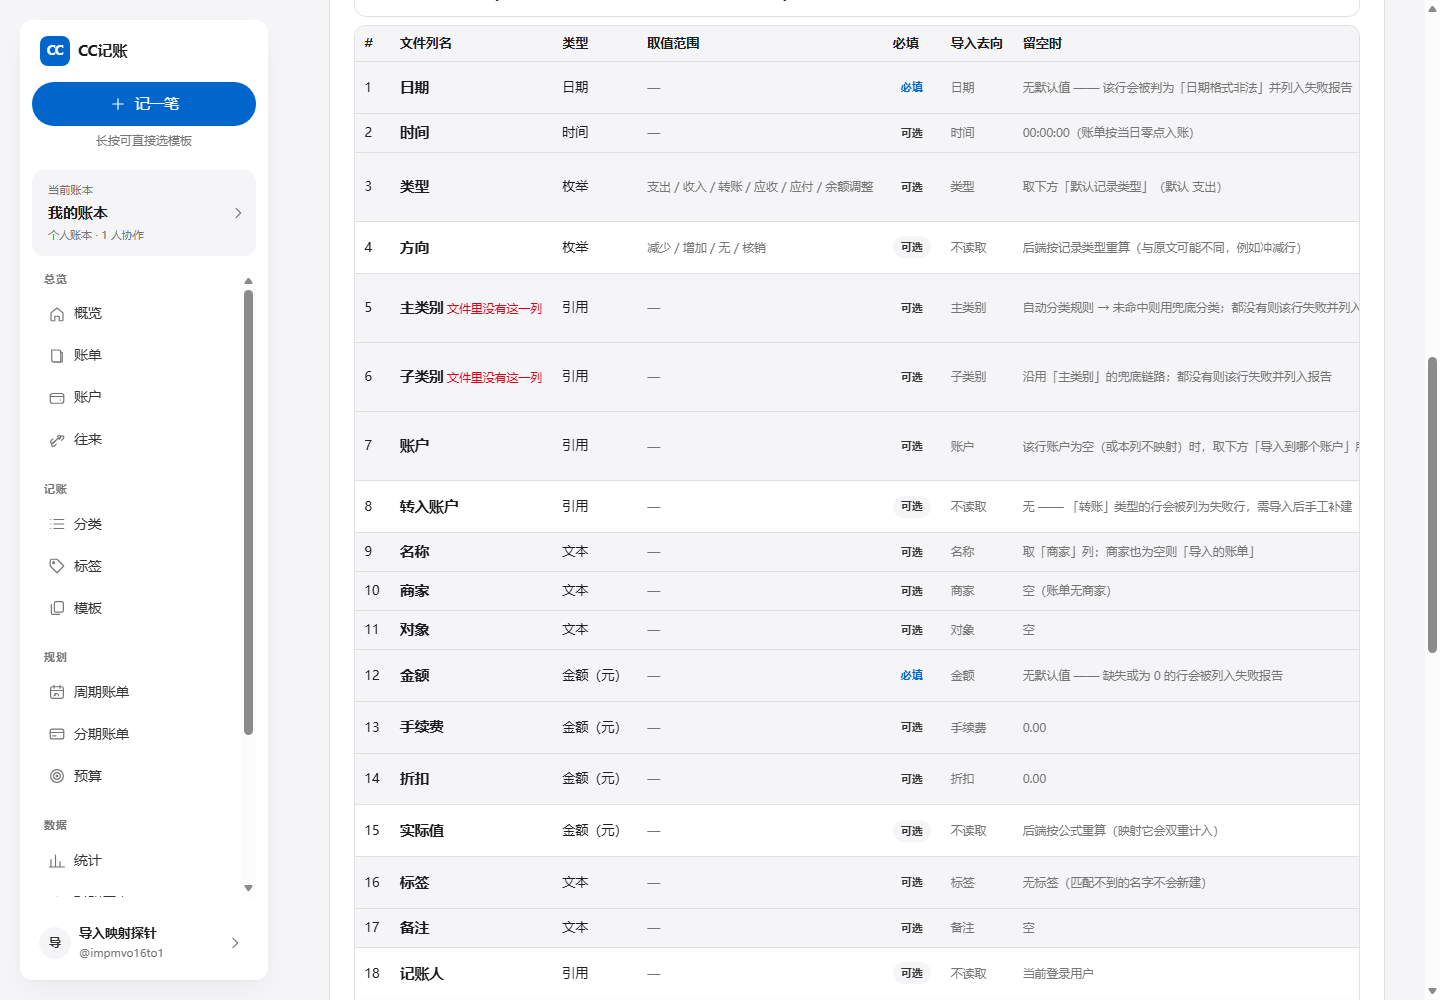
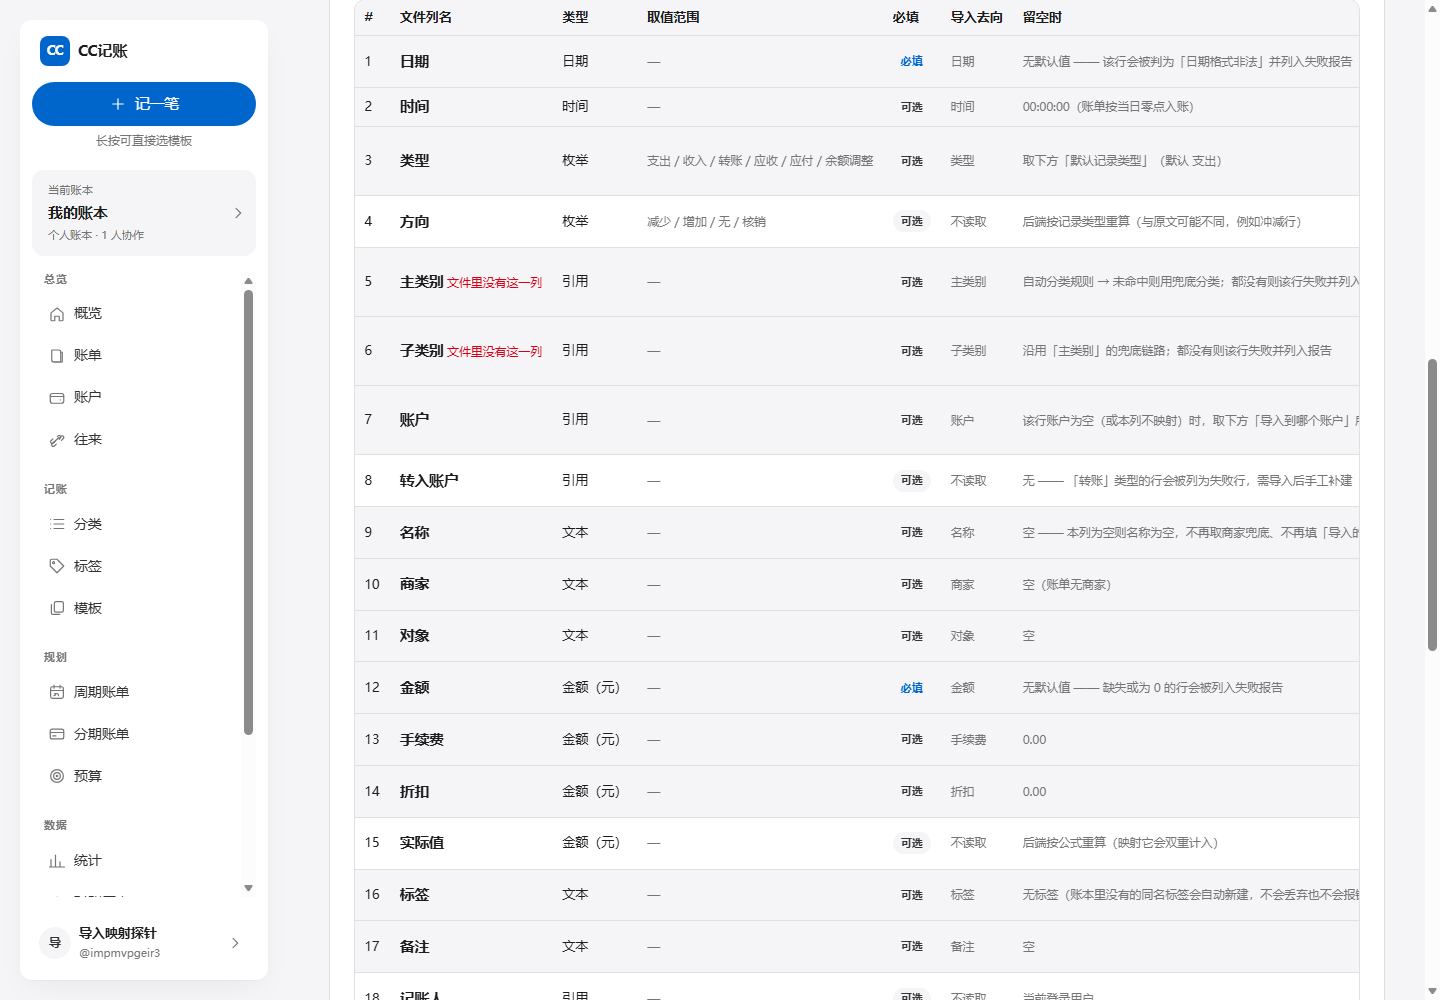
fix(import): 名称/商家/对象/标签/备注改为按列直写，不再匹配转换或兜底填充
导入的这五列此前会被「匹配 + 兜底」改写，落库值不等于文件里写的值：

1. 「名称」为空时取「商家」兜底，仍为空则填成「导入的账单」
   —— 凭空造出文件里没有的值，用户按名称核对时永远对不上，
   且看不出哪条是被兜底填出来的。改为：列里是什么就写什么，
   本列为空 → 名称就是 null，账单照常入库。

2. 「标签」按名字反查账本内标签，**匹配不到的名字被静默丢弃**
   —— 「导入成功但标签没进来」，既无报错也无痕迹。
   改为按列直写：`transaction_tags` 只存 tag_id，所以以列里的**原名**为键，
   已有同名标签复用其 id；没有则用这个名字原样新建（createTag），
   不归一化、不做别名匹配。任何一步拿不到 id 也只丢掉这一个标签，
   绝不让整行失败（可选列不该比必填列更严格）。

3. 商家 / 对象 / 备注本来就是直写，补齐注释并把「空值即留空」写明，
   同时把列契约（MAPPING_TEMPLATES[].doc）与前端 MAPPING_FIELDS
   两处的提示文案改成新口径 —— 这两处是同一份契约，改一处必须改另一处。

不做改动的（明确说明，避免被误读）：
- 去重键仍是「日期 + 金额 + 商家」（docs/05 §14.4）。它不是字段解析/转换，
  去掉会把「同日同额但商家不同」的两笔判成重复而静默跳过 —— 那是丢数据。
- 「商家 / 备注」仍参与自动分类规则匹配（classifyRows）：规则产出的是**分类**，
  不改写这两个字段本身。

验证：
- scripts/smoke-import-runtime.mjs 新增直写行（名称列故意留空 + 两个账本里
  没有的标签）与 7 条断言：名称/备注为空即 null、商家/对象原样、
  标签原样新建、已有同名标签不被重复创建。ALL PASS。
- npm run verify EXIT=0（vitest 85/85）；probe:importmap 80/80。
- 版本 1.1.1 → 1.1.2（package.json / env.ts / docker-compose / 部署文档 / CHANGELOG）。
  SW v20 → v21。

diff --git a/src/modules/imports/service.ts b/src/modules/imports/service.ts
@@ -42,6 +42,8 @@ import { AppError, HttpError } from '../../utils/errors.js';
 import { parseAmountToCents, today as todayStr } from '../../utils/money.js';
 import { writeAudit } from '../../utils/audit.js';
 import { createTransaction, normalizeTime } from '../transactions/service.js';
+/** 标签列直写时用它按名新建（`transaction_tags` 只存 id，名字必须先落到标签表） */
+import { createTag } from '../tags/service.js';
 import { DISCOUNT_APPLICABLE, FEE_APPLICABLE } from '../transactions/amounts.js';
 import { bumpHitCounts, classifyRows } from '../categoryRules/service.js';
 
@@ -317,8 +319,8 @@ doc: [
         values: null,
         required: false,
         consume: 'nameColumn',
-        hint: '可选。账单的展示名称',
-        defaultValue: '取「商家」列；商家也为空则「导入的账单」',
+        hint: '可选。账单的展示名称，按列原样写入（不与已有账单做任何匹配）',
+        defaultValue: '空 —— 本列为空则名称为空，不再取商家兜底、不再填「导入的账单」',
       },
       {
         column: '商家',
@@ -327,7 +329,7 @@ doc: [
         values: null,
         required: false,
         consume: 'merchantColumn',
-        hint: '可选。同时参与去重键比对',
+        hint: '可选。按列原样写入；同时参与去重键（日期+金额+商家）比对',
         defaultValue: '空（账单无商家）',
       },
       {
@@ -337,7 +339,7 @@ doc: [
         values: null,
         required: false,
         consume: 'counterpartyColumn',
-        hint: '可选。往来对象（借给谁 / 欠谁的）',
+        hint: '可选。往来对象（借给谁 / 欠谁的），按列原样写入',
         defaultValue: '空',
       },
       {
@@ -387,8 +389,8 @@ doc: [
         values: null,
         required: false,
         consume: 'tagsColumn',
-        hint: '可选。多个标签以「、」分隔；只认账本内已存在的标签名',
-        defaultValue: '无标签（匹配不到的名字不会新建）',
+        hint: '可选。多个标签以「、」分隔，按列原样写入',
+        defaultValue: '无标签（账本里没有的同名标签会自动新建，不会丢弃也不会报错）',
       },
       {
         column: '备注',
@@ -397,7 +399,7 @@ doc: [
         values: null,
         required: false,
         consume: 'noteColumn',
-        hint: '可选。账单备注，最多 2000 字',
+        hint: '可选。账单备注，最多 2000 字，按列原样写入',
         defaultValue: '空',
       },
       {
@@ -559,7 +561,13 @@ export interface Mapping {
   directionColumn?: string | null;
   /** 时分秒；留空 → occurred_at 取当日 00:00:00 */
   timeColumn?: string | null;
-  /** 账单名称；留空 → 取商家，仍为空则「导入的账单」 */
+  /**
+   * 账单名称。
+   *
+   * ⚠ **按列直写**：列里是什么就写什么，为空就是空（null）。
+   *    不再「取商家兜底、再兜底成『导入的账单』」—— 那是凭空造出文件里没有的值，
+   *    用户按名称核对时会对不上。
+   */
   nameColumn?: string | null;
   /** 主类别（一级分类）名；留空 → 自动分类规则 → 兜底分类 */
   mainCategoryColumn?: string | null;
@@ -571,7 +579,12 @@ export interface Mapping {
   feeColumn?: string | null;
   /** 折扣；留空 → 0。同上 */
   discountColumn?: string | null;
-  /** 标签名，多个以「、」分隔；留空 → 无标签 */
+  /**
+   * 标签名，多个以「、」分隔；留空 → 无标签。
+   *
+   * ⚠ **按列直写**：名字原样落到标签上，账本里没有的同名标签会新建，
+   *    不做「匹配不到就丢弃」的过滤，也不因它让整行失败。
+   */
   tagsColumn?: string | null;
   recordType: RecordType;
   defaultAccountId: string;
@@ -747,6 +760,17 @@ export function parseRows(
   /** 每行自带的账户名（「账户」列）；-1 = 未映射，全部走 defaultAccountId */
   const iAccount = idx(mapping.accountColumn);
   const iTime = idx(mapping.timeColumn);
+  /**
+   * 五个「文本直通」列：名称 / 商家 / 对象 / 标签 / 备注。
+   *
+   * ⚠ 它们**只按列取值**，后续不做任何匹配、转换、校验或过滤：
+   *    · 不拿名称 / 商家去匹配系统里已有的记录；
+   *    · 不把商家 / 对象 / 标签转成内部 id 或枚举（标签 id 的落库见 `ensureTagIds`）；
+   *    · 不校验它们在系统里是否存在；
+   *    · 空值即留空（null），不会因此让这一行失败。
+   * 这里唯一的加工是 `at()` 的**外层空白裁剪**（CSV 常带尾随空格，
+   * 不裁会把「 美团 」当成与「美团」不同的商家），值本身一字不改。
+   */
   const iName = idx(mapping.nameColumn);
   const iMain = idx(mapping.mainCategoryColumn);
   const iSub = idx(mapping.subCategoryColumn);
@@ -1127,28 +1151,44 @@ function resolveCategoryByNames(
 }
 
 /**
- * 标签名 → 标签 id。
+ * 标签列 → 标签 id。
  *
- * ⚠ 与导出端一致：导入的「标签」列是**名字**（`、「」` 分隔），而 `createTransaction`
- *     要的是 **id**（`docs/05 §14.4` 的 transaction_tags 关联表只存 id）。
- *     此前漏了这层转换，导致整行报「标签不存在」而建不了账 —— 一个可选列的错误
- *     放大成整笔账单丢失（违反「可选列不该比必填列更严格」）。
+ * ⚠ **按列直写**：「标签」列写的是**名字**（`、「」` 分隔），而 `transaction_tags`
+ *     关联表只存 tag_id（`docs/05 §14.4`），所以这里以**列里的原名**为键：
+ *       · 账本里已有同名标签 → 复用它的 id；
+ *       · 没有 → 用**这个名字原样新建**（不归一化、不做别名匹配、不改名）。
  *
- * 映射不到的名字**静默丢弃**（不新建）：导入只认账本内已有的标签，
- * 新建标签属于「改变用户账本结构」的副作用，不该由导入悄悄做。
+ * 为什么不再「匹配不到就静默丢弃」：那等于把文件里写了的值悄悄抹掉，
+ * 用户看到的是「导入成功，但标签没进来」，既无报错也无痕迹。
+ * 直写的代价是可能新增标签，换来的是「导入的值 = 文件里的值」这条可核对的保证。
+ *
+ * 任何一步拿不到 id 都只丢掉这一个标签，**绝不让整行失败** ——
+ * 标签是可选列，可选列不该比必填列更严格。
  */
-function resolveTagNames(ctx: AppCtx, ledgerId: string, names: string[]): string[] {
+function ensureTagIds(ctx: AppCtx, actorId: string, ledgerId: string, names: string[]): string[] {
   if (!names.length) return [];
-  const rows = ctx.db
-    .select({ id: tags.id, name: tags.name })
-    .from(tags)
-    .where(eq(tags.ledgerId, ledgerId))
-    .all();
-  const byName = new Map(rows.map((r) => [r.name, r.id]));
   const ids: string[] = [];
-  for (const n of names) {
-    const id = byName.get(n);
-    if (id) ids.push(id);
+  for (const name of names) {
+    const found = ctx.db
+      .select({ id: tags.id })
+      .from(tags)
+      .where(and(eq(tags.ledgerId, ledgerId), eq(tags.name, name)))
+      .get();
+    if (found) {
+      ids.push(found.id);
+      continue;
+    }
+    try {
+      ids.push(createTag(ctx, actorId, ledgerId, { name }).id);
+    } catch {
+      /* 并发下可能已被别人建了同名标签：再查一次；仍然拿不到就跳过这一个标签 */
+      const again = ctx.db
+        .select({ id: tags.id })
+        .from(tags)
+        .where(and(eq(tags.ledgerId, ledgerId), eq(tags.name, name)))
+        .get();
+      if (again) ids.push(again.id);
+    }
   }
   return ids;
 }
@@ -1369,7 +1409,15 @@ export function commit(
         recordType: p.recordType,
         accountId,
         categoryId,
-        name: p.name || p.merchant || '导入的账单',
+        /**
+         * 五个文本字段**按列直写**（名称 / 商家 / 对象 / 标签 / 备注）：
+         * 取的就是文件里那一格的原始值 —— 不做匹配、不转换、不校验、不兜底填充。
+         *
+         * ⚠ 名称不再「取商家 → 再兜底成『导入的账单』」：那是凭空造出文件里没有的值，
+         *    用户按名称核对时对不上，且永远看不出哪条是被兜底填出来的。
+         *    本列为空 → 名称就是空（null），账单照常入库。
+         */
+        name: p.name,
         merchant: p.merchant,
         note: p.note,
         amount: p.amount,
@@ -1378,7 +1426,8 @@ export function commit(
         txDate: p.txDate > todayStr() ? todayStr() : p.txDate,
         txTime: p.txTime,
         counterparty: p.counterparty,
-        tags: resolveTagNames(ctx, ledgerId, p.tags),
+        /** 标签同样按列直写：名字原样落库，账本里没有的同名标签自动新建，不会因此失败 */
+        tags: ensureTagIds(ctx, actorId, ledgerId, p.tags),
         clientRequestId: `import:${ledgerId}:${p.row}:${Math.abs(Math.round(Number(p.amount) * 100))}:${p.merchant ?? ''}`,
       });
       batch.add(k);

diff --git a/public/assets/views/import.js b/public/assets/views/import.js
@@ -35,14 +35,14 @@ const MAPPING_FIELDS = [
   { key: 'recordTypeColumn', label: '类型列', hint: '留空则整份文件按下方「默认记录类型」入账' },
   { key: 'accountColumn', label: '账户列', hint: '每行按这一列的账户名入账；留空或该行没有值，才记到下方「导入到哪个账户」' },
   { key: 'timeColumn', label: '时间列', hint: '留空则记账时间为当日 00:00:00' },
-  { key: 'nameColumn', label: '名称列', hint: '留空则取「商家」列，仍为空则「导入的账单」' },
+  { key: 'nameColumn', label: '名称列', hint: '按这一列原样写入账单名称；留空则名称为空（不再取商家兜底）' },
   { key: 'mainCategoryColumn', label: '主类别列', hint: '留空则走自动分类规则，再退回兜底分类' },
   { key: 'subCategoryColumn', label: '子类别列', hint: '留空则沿「主类别」的兜底链路' },
   { key: 'merchantColumn', label: '商家列', hint: '留空则账单无商家' },
   { key: 'counterpartyColumn', label: '对象列', hint: '留空则账单无往来对象' },
   { key: 'feeColumn', label: '手续费列', hint: '留空则按 0 处理' },
   { key: 'discountColumn', label: '折扣列', hint: '留空则按 0 处理' },
-  { key: 'tagsColumn', label: '标签列', hint: '留空则无标签；只认账本内已有标签' },
+  { key: 'tagsColumn', label: '标签列', hint: '留空则无标签；按这一列原样写入，账本里没有的同名标签会自动新建' },
   { key: 'noteColumn', label: '备注列', hint: '留空则账单无备注' },
 ];
 

diff --git a/public/sw.js b/public/sw.js
@@ -21,7 +21,7 @@
  * 静态资源走 SWR，不换版本号的话用户第一次刷新拿到的仍是旧 JS ——
  * 正好是要修的那份，会被当成「没修好」。
  */
-const VERSION = 'cc-ledger-v20';
+const VERSION = 'cc-ledger-v21';
 const SHELL = `${VERSION}-shell`;
 const STATIC = `${VERSION}-static`;
 const API = `${VERSION}-api`;

diff --git a/src/config/env.ts b/src/config/env.ts
@@ -45,7 +45,7 @@ const EnvSchema = z.object({
   ENABLE_SCHEDULER: boolEnv(true),
   BACKUP_ENABLED: boolEnv(true),
   BACKUP_RETENTION_DAYS: z.coerce.number().int().min(0).default(14),
-  APP_VERSION: z.string().min(1).default('1.1.1'),
+  APP_VERSION: z.string().min(1).default('1.1.2'),
 });
 
 export type Env = z.infer<typeof EnvSchema>;

diff --git a/DEPLOY-绿联NAS.md b/DEPLOY-绿联NAS.md
@@ -216,7 +216,7 @@ cat .env
 | 配置项 | 作用 | 能不能改 |
 |---|---|---|
 | `build: context: .` | 用当前目录的 `Dockerfile` 构建镜像 | 别改 |
-| `image: ${CC_IMAGE:-cc-ledger:1.1.1}` | 用哪个镜像：不设 `CC_IMAGE` 就用本地构建的这个名字；设成 `ghcr.io/shayi/cc-ledger:latest` 就是拉 GitHub 构建好的 | 可改（见 5.0） |
+| `image: ${CC_IMAGE:-cc-ledger:1.1.2}` | 用哪个镜像：不设 `CC_IMAGE` 就用本地构建的这个名字；设成 `ghcr.io/shayi/cc-ledger:latest` 就是拉 GitHub 构建好的 | 可改（见 5.0） |
 | `restart: unless-stopped` | **开机自启的核心**：容器退出就自动拉起；你手动停的则不再拉 | 见第五节 |
 | `ports: "3000:3000"` | **端口映射**，见第六节 | 端口冲突时只改左边 |
 | `JWT_SECRET` | 登录凭证密钥 | **必改**，其余可不动 |
@@ -270,7 +270,7 @@ echo 'CC_IMAGE=ghcr.io/shayi/cc-ledger:latest' >> .env
 ```
 
 > `CC_IMAGE` 不是应用的环境变量，只被 `docker-compose.yml` 读取，用来决定「用哪个镜像」。
-> 不写这一行 = 走本地构建（默认 `cc-ledger:1.1.1`）。
+> 不写这一行 = 走本地构建（默认 `cc-ledger:1.1.2`）。
 
 **第 2 步：登录 ghcr**（镜像设为 public 后可以跳过这步）
 
@@ -299,7 +299,7 @@ docker compose up -d
 |---|---|---|
 | `latest` | 每次推 `main` | 日常用这个 |
 | `sha-626e08c` | 每次构建 | 想钉死到某一次提交 |
-| `v1.1.1` | 打了 `v*` tag | 固定版本 |
+| `v1.1.2` | 打了 `v*` tag | 固定版本 |
 
 **想把镜像设为 public（这样任何机器不用登录就能拉）**：
 GitHub → 你的头像 → Your profile → **Packages** → `cc-ledger` → 右侧 **Package settings** →
@@ -717,7 +717,7 @@ curl http://127.0.0.1:3000/healthz
 {
   "status": "ok",
   "app": "CC记账",
-  "version": "1.1.1",
+  "version": "1.1.2",
   "uptimeSeconds": 3944,
   "database": { "connected": true, "migrationsApplied": 17, "walMode": true },
   "scheduler": { "running": true, "nextRun": "...", "tasks": [] }

diff --git a/CHANGELOG.md b/CHANGELOG.md
@@ -4,6 +4,26 @@
 打 `v*` tag 时 GitHub Actions 会产出同名的固定版本镜像（如 `v1.1.0`），
 推 `main` 时产出 `latest` 与 `sha-xxxxxxx`。
 
+## 1.1.2 — 2026-10-26
+
+### 修复
+- **导入：名称 / 商家 / 对象 / 标签 / 备注改为按列直写**。此前这五列会被
+  「匹配 + 兜底」改写，导入值不等于文件值：
+  · 「名称」为空时取「商家」兜底，仍为空则填成「导入的账单」——
+    凭空造出文件里没有的值，用户按名称核对时永远对不上；
+  · 「标签」按名字反查账本内的标签，**匹配不到的名字被静默丢弃**，
+    「导入成功但标签没进来」既无报错也无痕迹。
+  改为：列里是什么就写什么 —— 不做匹配、不转换、不校验、不兜底填充，
+  空值即留空（名称 / 备注为空就是 null，不拦导入）。标签同样按列直写：
+  已有同名标签复用，没有的用这个名字原样新建（`transaction_tags` 只存 tag_id，
+  名字必须先落到标签表），任何一步拿不到 id 也只丢掉这一个标签、不让整行失败。
+
+### 说明
+- 去重键仍是「日期 + 金额 + 商家」（`docs/05 §14.4`）。它不是字段解析/转换，
+  去掉它会把「同日同额但商家不同」的两笔判成重复而静默跳过 —— 那是丢数据。
+- 「商家 / 备注」仍参与自动分类规则匹配（`classifyRows`），规则产出的是**分类**，
+  不改写这两个字段本身。
+
 ## 1.1.1 — 2026-10-25
 
 ### 修复
